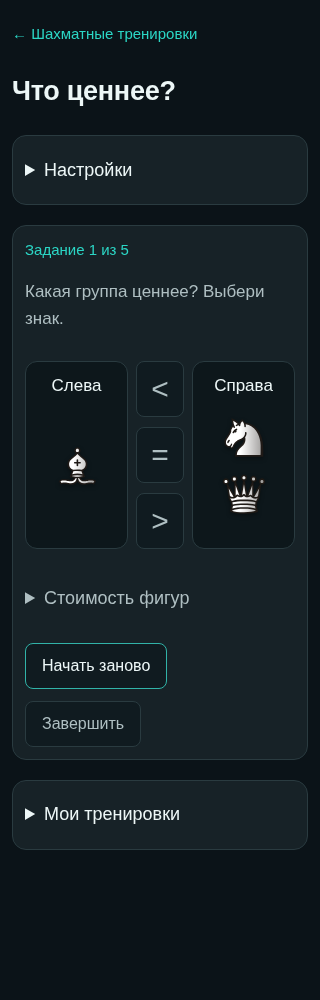
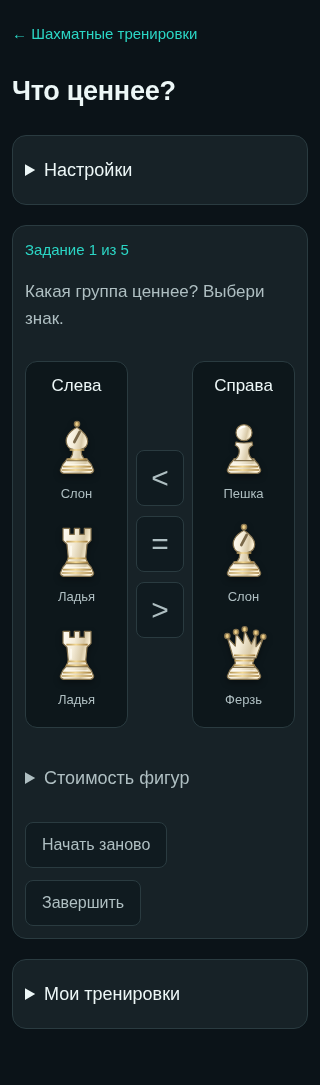
Add ivory and gold teaching pieces to material comparison

diff --git a/src/modules/mathlab/styles.css b/src/modules/mathlab/styles.css
@@ -75,10 +75,14 @@
 .mathlab .ml-material-comparison{display:grid;grid-template-columns:minmax(0,1fr) 64px minmax(0,1fr);gap:14px;align-items:center;margin:28px 0}
 .mathlab .ml-material-group{border:1px solid var(--ml-line);border-radius:12px;background:var(--well);padding:18px 10px;align-self:stretch;text-align:center}
 .mathlab .ml-material-pieces{display:flex;flex-wrap:wrap;justify-content:center;align-items:center;gap:8px;min-height:110px}
-.mathlab .ml-material-pieces img{width:clamp(46px,9vw,94px);height:auto;aspect-ratio:1;filter:drop-shadow(0 2px 2px #0005)}
+.mathlab .ml-material-pieces img{width:clamp(64px,9vw,94px);height:auto;aspect-ratio:1;filter:drop-shadow(0 2px 2px #0005)}
 .mathlab .ml-material-choices{display:flex;flex-direction:column;gap:10px}
 .mathlab .ml-material-choices .btn{min-height:56px;font-size:30px;padding:4px}
 .mathlab .ml-material-choices [aria-pressed=true]{border:2px solid var(--ml-teal)}
 .mathlab .ml-material-reference{margin-top:24px;text-align:left;color:var(--fg)}
-@media(max-width:430px){.mathlab .ml-material-comparison{gap:8px;grid-template-columns:minmax(0,1fr) 48px minmax(0,1fr)}.mathlab .ml-material-group{padding:12px 4px}.mathlab .ml-material-pieces{gap:4px}.mathlab .ml-material-pieces img{width:46px}}
+@media(max-width:430px){.mathlab .ml-material-comparison{gap:8px;grid-template-columns:minmax(0,1fr) 48px minmax(0,1fr)}.mathlab .ml-material-group{padding:12px 4px}.mathlab .ml-material-pieces{gap:4px}.mathlab .ml-material-pieces img{width:64px}}
 .mathlab .ml-material-total{font-size:20px;font-weight:600;margin:14px 0 0;color:var(--fg-strong)}
+
+.mathlab .ml-material-piece{display:flex;flex-direction:column;align-items:center;gap:6px;margin:0;padding:6px 2px}
+.mathlab .ml-material-piece figcaption{font-size:13px;line-height:1.3;color:var(--fg)}
+.mathlab .ml-material-piece img{object-fit:contain;filter:drop-shadow(0 3px 3px #0005)}

diff --git a/src/modules/mathlab/index.ts b/src/modules/mathlab/index.ts
@@ -240,7 +240,7 @@ function mountExercise(root:HTMLElement,ctx:AppContext,id:Exercise):Unmount {
   if(!task?.left||!task.right)return;
   surface.replaceChildren(el('p',{class:'ml-instruction'},['Какая группа ценнее? Выбери знак.']));
   const group=(pieces:MaterialPiece[],title:string)=>el('section',{class:'ml-material-group','aria-label':title},[
-   el('h3',{},[title]),el('div',{class:'ml-material-pieces'},pieces.map(p=>el('img',{src:`${import.meta.env.BASE_URL}piece/merida/w${p}.svg`,alt:PIECE_NAMES[p],draggable:'false'})))
+   el('h3',{},[title]),el('div',{class:'ml-material-pieces'},pieces.map(p=>el('figure',{class:'ml-material-piece'},[el('img',{src:`${import.meta.env.BASE_URL}piece/ivory/w${p}.svg`,alt:PIECE_NAMES[p],draggable:'false'}),el('figcaption',{'aria-hidden':'true'},[PIECE_NAMES[p]])])))
   ]);
   const choices=el('div',{class:'ml-material-choices',role:'group','aria-label':'Сравнение стоимости'});
   for(const [sign,label,value] of [['<','Слева дешевле',-1],['=','Одинаковая стоимость',0],['>','Слева дороже',1]] as const){

diff --git a/docs/material/README.md b/docs/material/README.md
@@ -4,7 +4,7 @@
 
 Две группы по 1–3 фигуры, стоимость группы не больше 15. Учебная шкала: пешка 1, конь/слон 3, ладья 5, ферзь 9. Король не участвует. Сравнивается только материал, без оценки позиции. Три отношения выбираются с одинаковой вероятностью; равенство включает разные наборы фигур. Ответ — касание `<`, `=` или `>`, после проверки показаны суммы. Следующее задание только по кнопке. Неправильная первая попытка остается ошибкой после повторения.
 
-Чистая генерация: `src/modules/mathlab/material.ts`. Интерфейс использует имеющийся движок серий, настройки количества и локальное хранение с отдельным идентификатором `material`. Шахматные движки, доска, старые упражнения и их результаты не менялись. Новый тренажер не отображается в MathLab; повторно используется его техническая оболочка. SVG — существующие Merida, с относительным базовым путем приложения.
+Чистая генерация: `src/modules/mathlab/material.ts`. Интерфейс использует имеющийся движок серий, настройки количества и локальное хранение с отдельным идентификатором `material`. Шахматные движки, доска, старые упражнения и их результаты не менялись. Новый тренажер не отображается в MathLab; повторно используется его техническая оболочка. SVG — отдельный авторский набор Ivory: тёплая слоновая кость, тонкая золотистая отделка и подписи фигур, с относительным базовым путем приложения.
 
 Проверки: `npm test -- --maxWorkers=2`, `node e2e/material.mjs`, `npm run test:math`, `npm run build`. Браузерные проверки Chromium с эмуляцией мыши/касания; физический iPad не проверялся.
 
